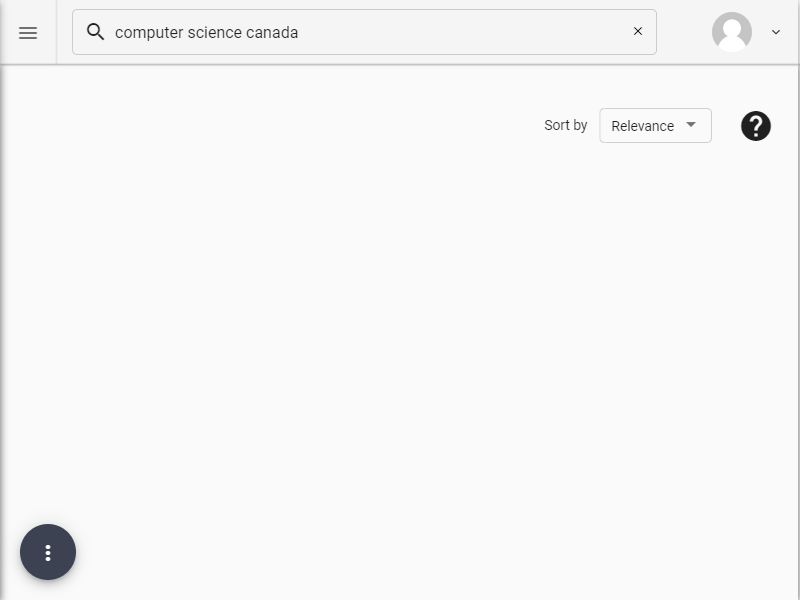
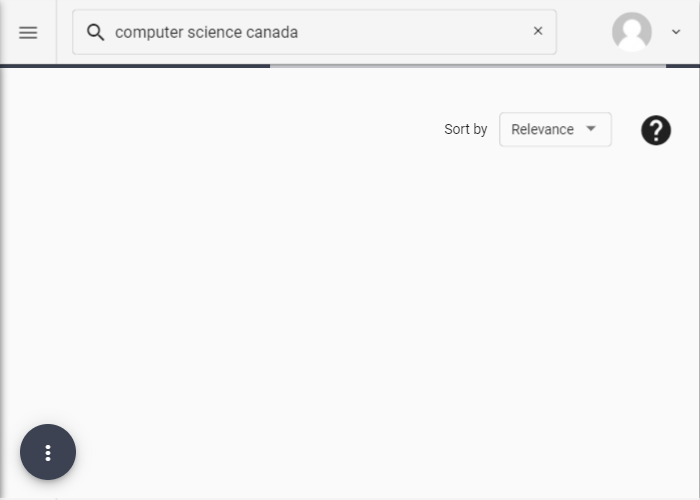
searching by search query works
still have to do manual recaptcha and possibly scroll through results (?)

diff --git a/soc.js b/soc.js
@@ -10,6 +10,10 @@ const commandLine = process.argv.slice(2);
 const credentials = commandLine.slice(0, 2);
 // eslint-disable-next-line no-console
 console.log(credentials);
+let searchQuery = commandLine.slice(2);
+searchQuery = searchQuery.join(' ');
+// eslint-disable-next-line no-console
+console.log(searchQuery);
 // eslint-disable-next-line no-unused-vars
 const userAgent = require('user-agents');
 
@@ -96,7 +100,7 @@ async function startBrowser() {
 }
 
 async function login(url, browser, page) {
-  page.setViewport({ width: 800, height: 600 });
+  page.setViewport({ width: 700, height: 500 });
   // eslint-disable-next-line max-len
   await page.setUserAgent('5.0 (Windows NT 10.0; Win64; x64) AppleWebKit/537.36 (KHTML, like Gecko) Chrome/69.0.3497.100 Safari/537.36');
   await page.goto(url);
@@ -115,7 +119,7 @@ async function input(page) {
     timeout: 100000,
   });
   await page.click('input[aria-label="Search Bar"]');
-  await page.keyboard.type('computer science canada');
+  await page.keyboard.type(searchQuery);
   await (await page.$('input[aria-label="Search Bar"]')).press('Enter');
   await page.screenshot({ path: 'soc.png' });
 }
